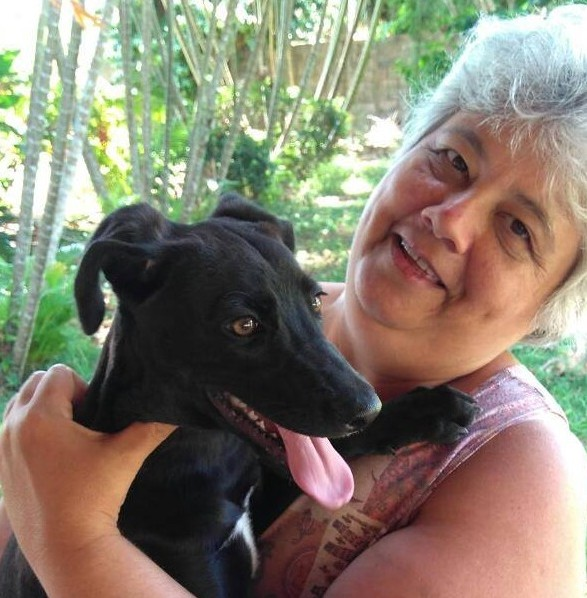
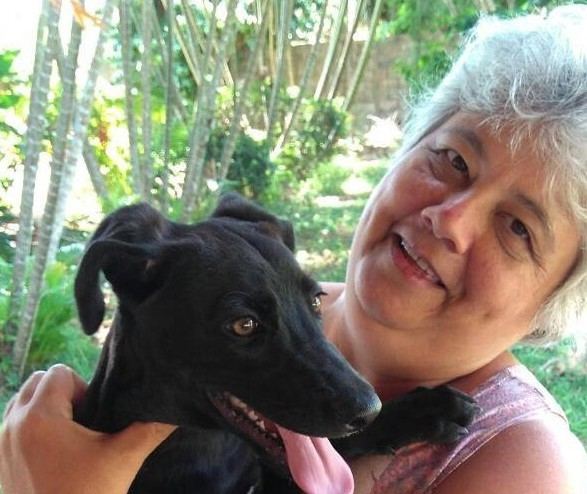
Correção de textos e atualização das imagens dos cards de eventos

diff --git a/pages/eventos.html b/pages/eventos.html
@@ -65,7 +65,7 @@
 
     <main class="ga-page-eventos">
         <section class="ga-bck-eventos">
-            <img src="../assets/imagem-ia-eventos-fundo.png" alt="Imagem de uma feira de artesanato">
+            <img src="../assets/evento-principal.jpg" alt="Foto do grupo associação gaia">
             <div class="ga-titulo-eventos">
                 <h1>Eventos</h1>
                 <p class="ga-texto-titulo-eventos">Nosso trabalho está mais perto do que você acha, venha conhece-lo!</p>
@@ -87,36 +87,37 @@
                 <button class="ga-filtro-evento" data-filtro="palestras">Palestras</button>
                 <button class="ga-filtro-evento" data-filtro="cursos">Cursos</button>
             </div>
+
             <div class="ga-itens-eventos">
                 <div class="ga-card-eventos card-base" data-categoria="feira">
                     <div class="ga-img-eventos">
-                        <img src="../assets/imagem-ia-dia-das-maes.png" alt="Evento de Dia das Mães">
+                        <img src="../assets/fashion-day.jpg" alt="Evento Fashion Day">
                     </div>
                     <div class="ga-interno-eventos">
-                        <h3 class="ga-titulo-card-eventos">Evento de Dia das Mães</h3>
+                        <h3 class="ga-titulo-card-eventos">Artesanal Fashion Day</h3>
                     <div class="ga-local-eventos">
                         <img src="../assets/ponteiro-mapa.png" alt="">
                         <p>Praça Central • Itapetininga</p>
                     </div>
                     <div class="ga-data-eventos">
                         <img src="../assets/calendario-eventos.png" alt="">
-                        <p>10 de Maio</p>
+                        <p>10 de Maio de 2026</p>
                     </div>
                     <div class="ga-tags-eventos">
                         <span>Tricô</span>
                         <span>Bordado</span>
-                        <span>Cerâmica</span>
                     </div>
                         <a href="../pages/agenda.html" class="ga-btn-detalhes">Agendar</a>
                         <a href="evento.html?id=1" class="ga-btn-detalhes">Ver detalhes</a>
                     </div>
                 </div>
+
                 <div class="ga-card-eventos card-base" data-categoria="exposicao">
                     <div class="ga-img-eventos">
-                        <img src="../assets/imagem-ia-eventos-fundo.png" alt="Exposição Reginonal">
+                        <img src="../assets/maos-e-mentes.jpg" alt="Mega Artesanato">
                     </div>
                     <div class="ga-interno-eventos">
-                        <h3 class="ga-titulo-card-eventos">Exposição Regional</h3>
+                        <h3 class="ga-titulo-card-eventos">Mega Artesanato</h3>
                     <div class="ga-local-eventos">
                         <img src="../assets/ponteiro-mapa.png" alt="">
                         <p>Museu Municipal • Itapetininga</p>
@@ -132,18 +133,19 @@
                         <a href="evento.html?id=2" class="ga-btn-detalhes">Ver detalhes</a>
                     </div>
                 </div>
+                
                 <div class="ga-card-eventos card-base" data-categoria="oficina">
                     <div class="ga-img-eventos">
-                        <img src="../assets/oficina_de_bordado_ia.png" alt="Oficina de Bordado">
+                        <img src="../assets/maos-criativas.jpg" alt="Mãos Criativas">
                     </div>
                     <div class="ga-interno-eventos">
-                        <h3 class="ga-titulo-card-eventos">Oficina de Bordado</h3>
+                        <h3 class="ga-titulo-card-eventos">Mãos Criativas</h3>
                     <div class="ga-local-eventos">
-                        <img src="../assets/ponteiro-mapa.png" alt="">
-                        <p>Praça Peixoto Gomide</p>
+                        <img src="../assets/ponteiro-mapa.png" alt="icone-local">
+                        <p>Praça Peixoto Gomide • Itapetininga</p>
                     </div>
                     <div class="ga-data-eventos">
-                        <img src="../assets/calendario-eventos.png" alt="">
+                        <img src="../assets/calendario-eventos.png" alt="icone-calendario">
                         <p>21 de Maio 2026</p>
                     </div>
                     <div class="ga-tags-eventos">
@@ -154,12 +156,13 @@
                         <a href="evento.html?id=3" class="ga-btn-detalhes">Ver detalhes</a>
                     </div>
                 </div>
+
                 <div class="ga-card-eventos card-base" data-categoria="feira">
                     <div class="ga-img-eventos">
-                        <img src="../assets/feira_da_lua_ia.png" alt="Feira da Lua">
+                        <img src="../assets/Natal-maos-criativas.jpg" alt="Evento de natal mãos criativas">
                     </div>
                     <div class="ga-interno-eventos">
-                        <h3 class="ga-titulo-card-eventos">Feira da Lua</h3>
+                        <h3 class="ga-titulo-card-eventos">Edição Natal - 2ª Vitrine Mãos Criativas</h3>
                     <div class="ga-local-eventos">
                         <img src="../assets/ponteiro-mapa.png" alt="">
                         <p>Praça Mal.Deodoro da Fonseca</p>
@@ -171,6 +174,7 @@
                     <div class="ga-tags-eventos">
                         <span>Feira</span>
                         <span>Exposição</span>
+                        <span>Comemorativo</span>
                     </div>
                         <a href="../pages/agenda.html" class="ga-btn-detalhes">Agendar</a>
                         <a href="evento.html?id=4" class="ga-btn-detalhes">Ver detalhes</a>
@@ -201,10 +205,11 @@
             <div class="footer-grid-bloco3">
                 <h4>Categorias</h4>
                 <ul>
-                    <li><a href="#">Cerâmica</a></li>
-                    <li><a href="#">Tecelagem</a></li>
-                    <li><a href="#">Porcelana</a></li>
-                    <li><a href="#">Marcenaria</a></li>
+                    <li><a href="artesaos.html" aria-label="Ver detalhes do evento">Cerâmica</a></li>
+                    <li><a href="artesaos.html" aria-label="Ver detalhes do evento">Bordado</a></li>
+                    <li><a href="artesaos.html" aria-label="Ver detalhes do evento">Patchwork</a></li>
+                    <li><a href="artesaos.html" aria-label="Ver detalhes do evento">Patch Aplique</a></li>
+                    <li><a href="artesaos.html" aria-label="Ver detalhes do evento">Artesanato Exclusivo</a></li>
                 </ul>
             </div>
             

diff --git a/css/style.css b/css/style.css
@@ -9,7 +9,7 @@
   --cor-fonte-preta: #1c1c1c; 
   --cor-botao-principal: #b44f29; 
   --cor-badge: #6b4f2a;
-  --cor-flecha: #c45e2a;
+  --cor-flecha: #b14f1f;
   --cor-info-artesao: #d4a373;
   --cor-botao-hover: #a34d22;
   --cor-fonte-medio: #4a3f37;
@@ -24,7 +24,7 @@
   --cor-verde-titulo: #3a6b35;
   --cor-hero-medio:   #f0e5d4;
   --cor-fonte-escuro: #4f3021;
-  --cor-fonte-marrom-medio: #6d2f17;
+  --cor-fonte-marrom-medio: #5c2612;
 }
 
 /* ==========================
@@ -371,7 +371,7 @@ body{
     align-items: center;
     justify-content: center;
     gap: 5px;
-    background-color: var(--cor-flecha);
+    background-color: var(--cor-botao-principal);
     color: var(--cor-fonte);
     padding: 12px 25px;
     border-radius: 8px;
@@ -1282,13 +1282,13 @@ HEADER - CSS PARA TABLETS
 }
 
 .la-artesao-info h3 {
-    color: var(--cor-fonte);
+    color: var(--cor-fonte-marrom-medio);
     font-size: 1.1rem;
     margin-bottom: 4px;
 }
 
 .la-artesao-info p {
-    color: rgba(255,255,255,0.85);
+    color: var(--cor-fonte-marrom-medio);
     font-size: 0.85rem;
     margin-bottom: 10px;
 }

diff --git a/pages/agenda.html b/pages/agenda.html
@@ -142,7 +142,7 @@
         <div class="footer-grid-bloco3">
             <h4>Categorias</h4>
             <ul>
-                <li><a href="#">Cerâmica</a></li>
+                <li><a href="pages/eventos.html" aria-label="Ver detalhes do evento">Cerâmica</a></li>
                 <li><a href="#">Tecelagem</a></li>
                 <li><a href="#">Porcelana</a></li>
                 <li><a href="#">Marcenaria</a></li>